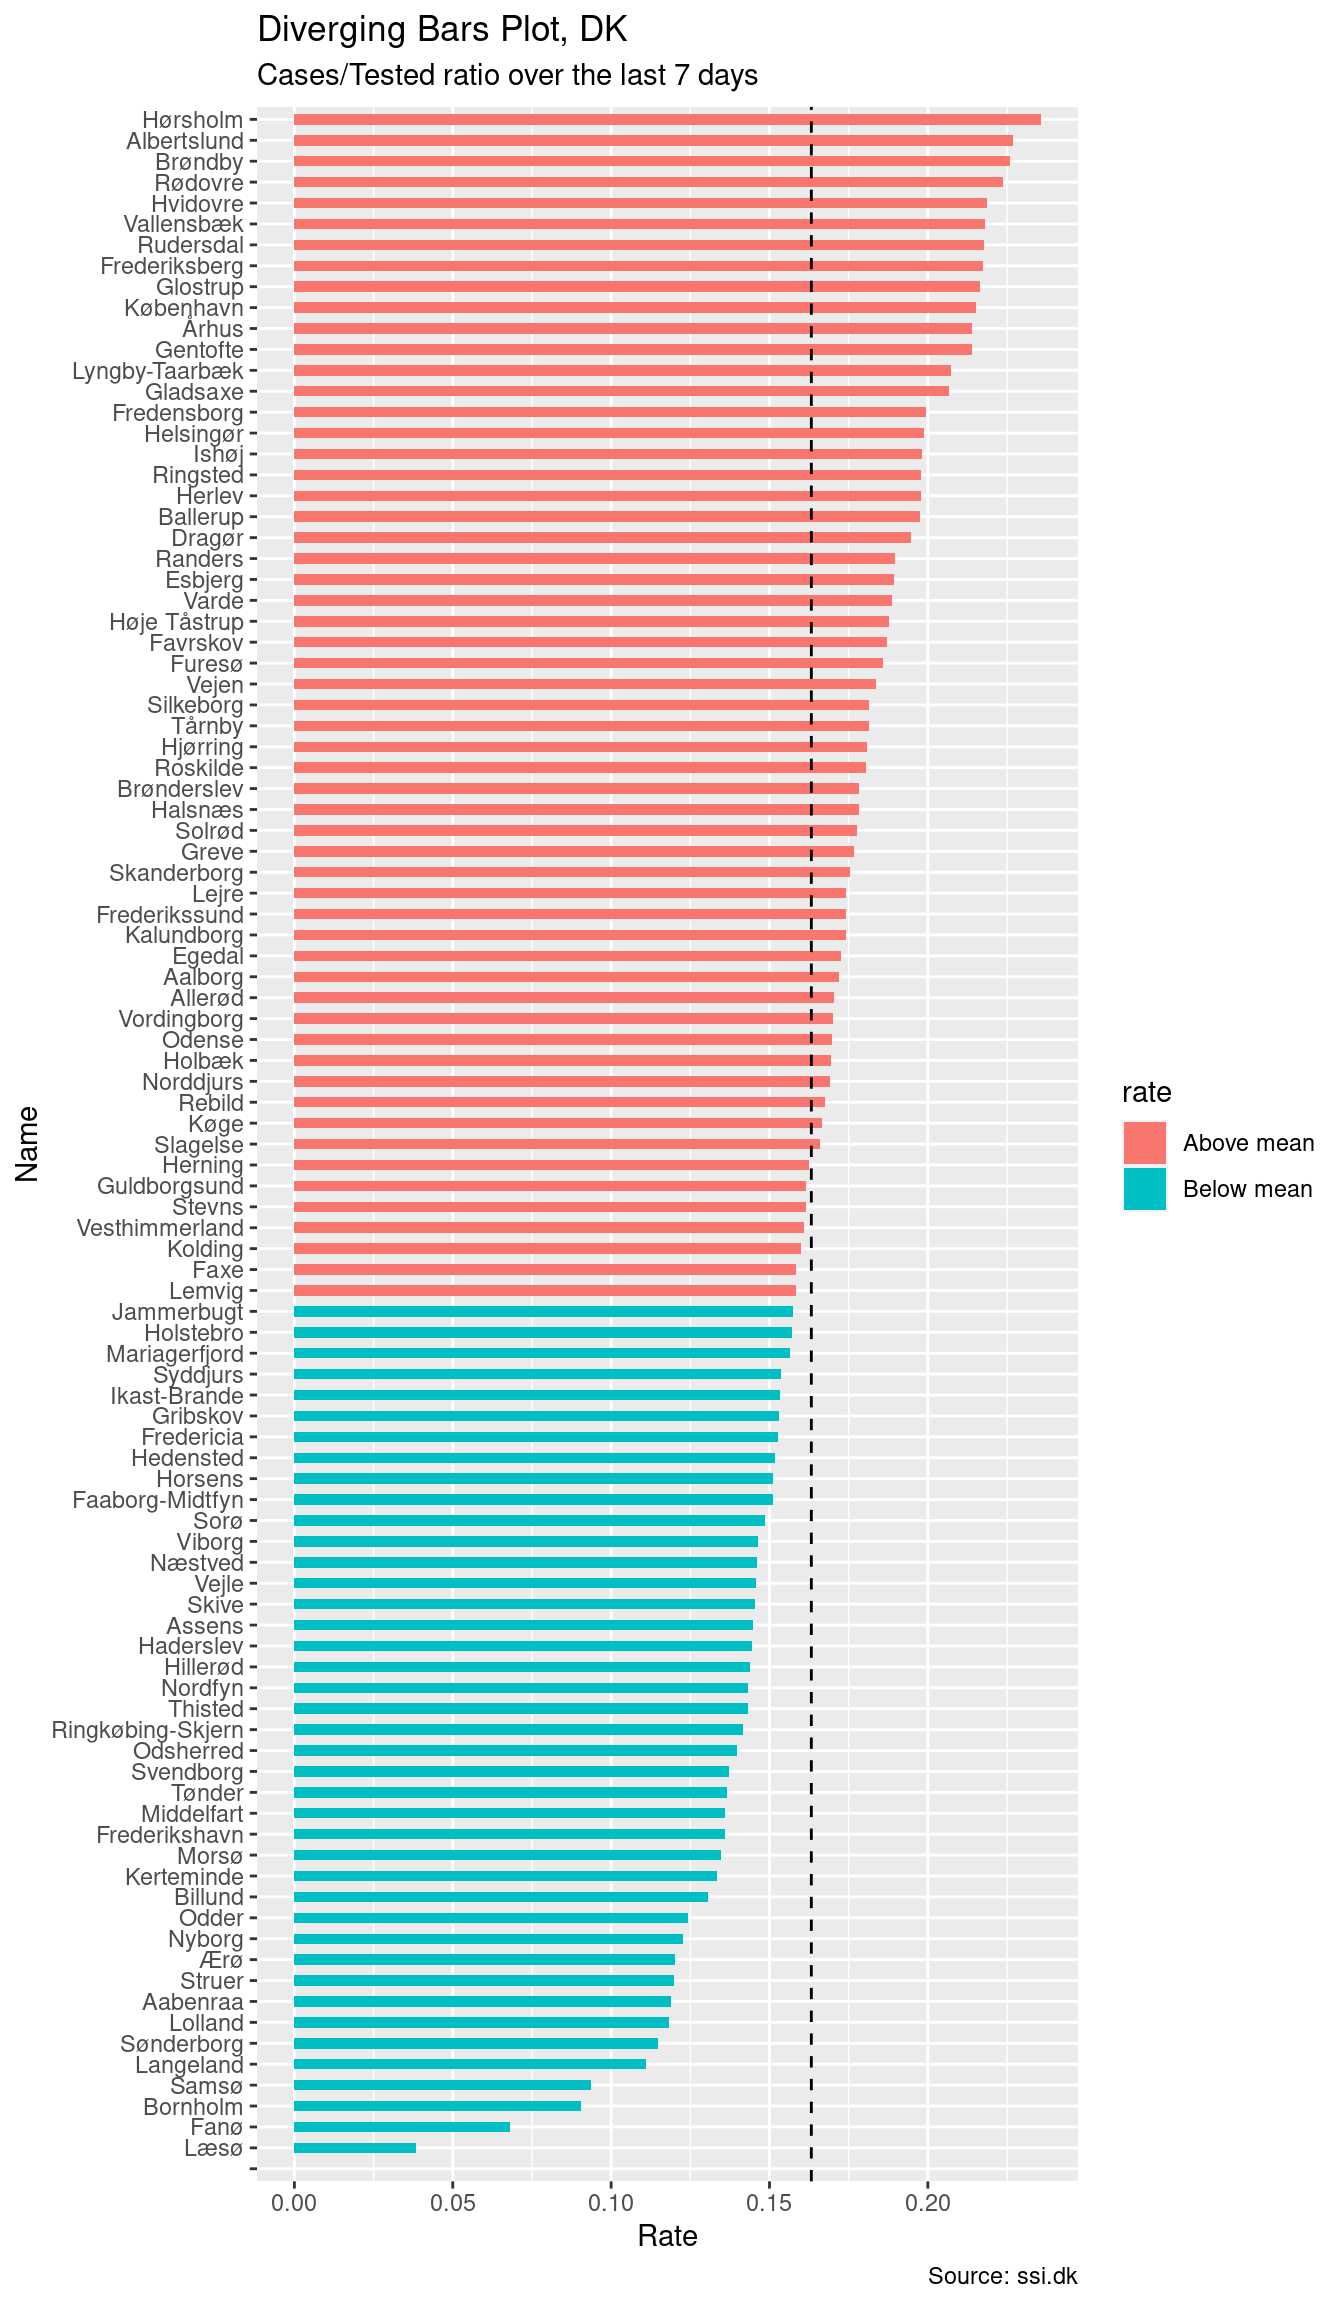
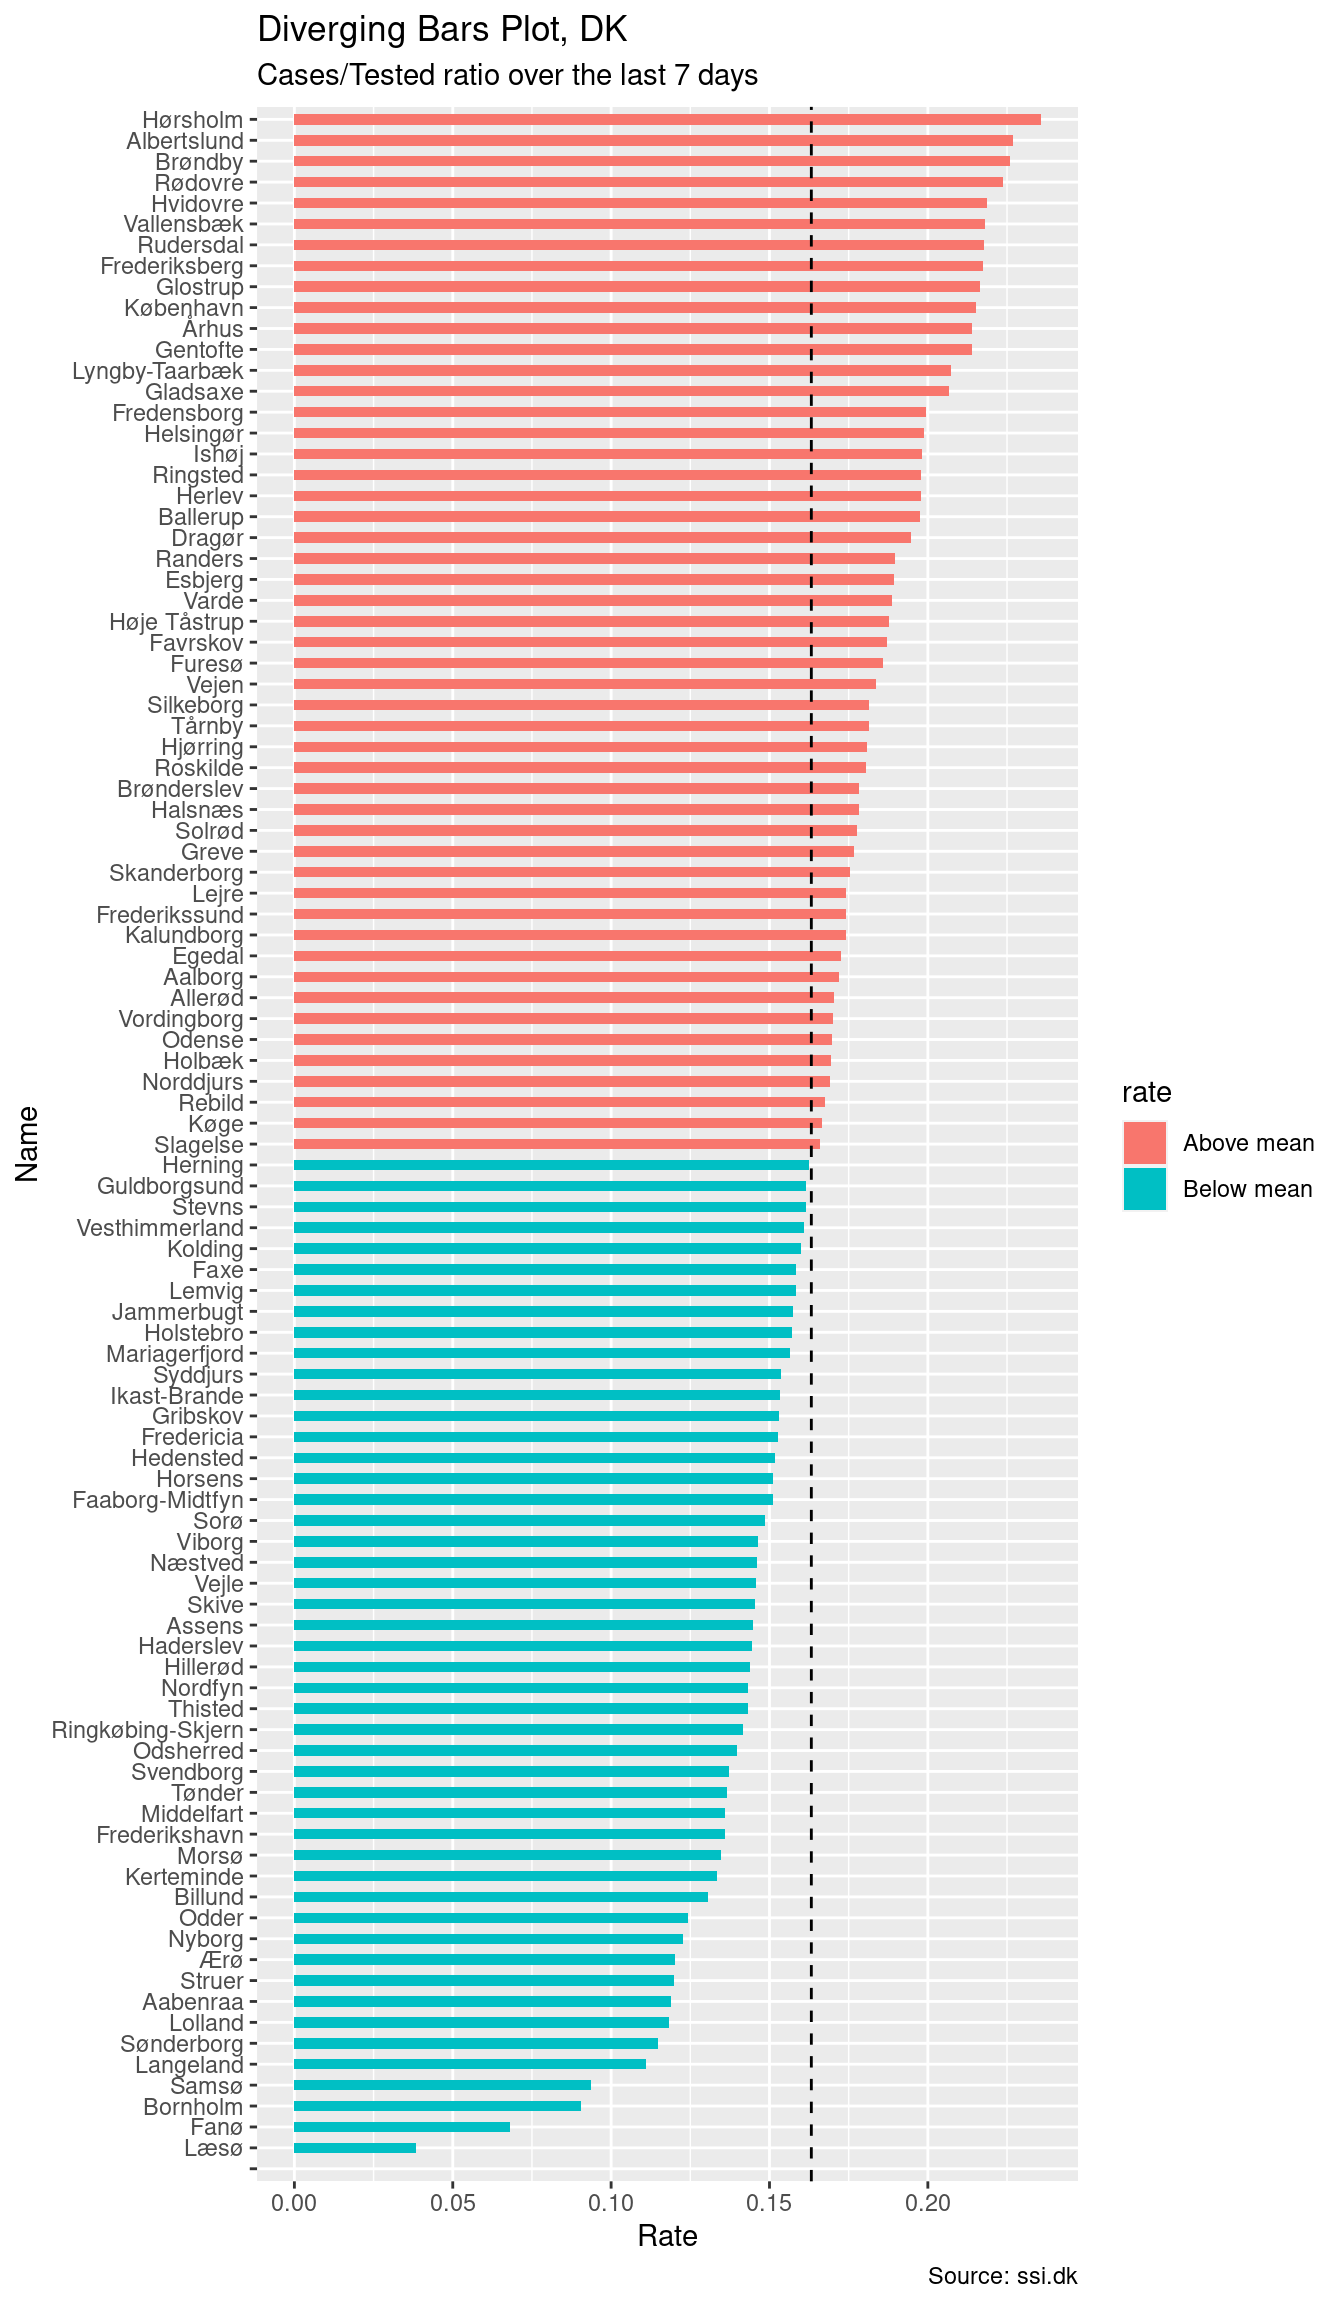
Fix rounding error in plot.

Changed region(s): [[0.2188, 0.5, 0.5938, 0.5625]]

diff --git a/docs/index.html b/docs/index.html
@@ -668,7 +668,7 @@ muncipalities$incidence_type &lt;- ifelse(muncipalities$incidence_z &lt; 0, &quo
 <p><img src="index_files/figure-html/muncipality-incidence-overview-1.png" width="672" /></p>
 <p>More computation allows us to do the same for cases per test</p>
 <pre class="r"><code>muncipalities$rate &lt;- muncipalities$cases / muncipalities$tested_1w
-muncipalities$rate_z &lt;- round(muncipalities$rate - mean(muncipalities$rate), 2)
+muncipalities$rate_z &lt;- round(muncipalities$rate - mean(muncipalities$rate), 5)
 muncipalities$rate_type &lt;- ifelse(muncipalities$rate_z &lt; 0, &quot;Below mean&quot;, &quot;Above mean&quot;)
 muncipalities$rate</code></pre>
 <pre><code>##  [1] 0.00000000 0.21524304 0.21742013 0.19753326 0.22585970 0.19465776
